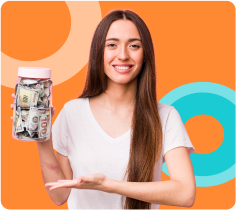
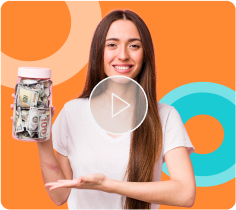
pag 1 desktop full

Changed region(s): [[0.3559, 0.3429, 0.6525, 0.6286], [0.4449, 0.6286, 0.5339, 0.6571]]

diff --git a/Boton-Tutoriales/tutoriales.html b/Boton-Tutoriales/tutoriales.html
@@ -7,7 +7,6 @@
   <link rel="stylesheet" href="tutoriales.css">
   <link rel="stylesheet" href="/Cuenta-del-usuario/style.css">
   <link rel="stylesheet" href="/landing.css">
-  <link rel="stylesheet" href="asesor.css">
   <link rel="stylesheet" href="https://fonts.googleapis.com/icon?family=Material+Icons">
   <link rel="stylesheet" href="https://unpkg.com/swiper@7/swiper-bundle.min.css" />
 
@@ -21,8 +20,8 @@
 
   <section id="tut-main">
 	  <img class="tut-hero hero" src="/img/tuto-hero.png">
-	  <div class="tut-destacado-div">
-		  <img src="/img/tuto-vid-thumb.png">
+	  <div class="tut-destacado-div" id="tuto-thumb">
+		  <img src="/img/tuto-vid-thumb.png" >
 		  <article class="tut-destacado-contenido">
 			  <p class="tut-art-pre">VIDEO</p>
 			  <h4 class="tut-art-titulo">¿Como sacar tu credito inmediato?</h4>

diff --git a/Boton-Tutoriales/tutoriales.css b/Boton-Tutoriales/tutoriales.css
@@ -1,3 +1,4 @@
+
 #tut-main {
 	display: flex;
 	flex-direction: column;
@@ -18,6 +19,15 @@
 	margin-top: -360px;
 	z-index: 3;
 	background-color: white;
+	cursor: pointer;
+}
+
+.tut-destacado-div img{
+	width: 30%;
+}
+
+.tut-destacado-div:hover img{
+	filter: brightness(0.8);
 }
 
 .tut-destacado-contenido {
@@ -85,6 +95,10 @@
 	align-items: stretch;
 }
 
+.tut-main-contenido img {
+	width: 30%;
+}
+
 .tut-main-izq {
 	display: flex;
 	width: 40%;
@@ -130,6 +144,14 @@
 	gap: 50px;
 	background-color: white;
 }
+
+/*
+.tut-cont-vid:hover img{
+	filter: brightness(0.8);
+	cursor: pointer;
+}
+*/
+
 /* Main derecho */
 
 .tut-main-der {
@@ -138,6 +160,10 @@
 	gap: 30px;
 	flex-direction: column;
 	align-items: flex-start;
+}
+
+.tut-main-der img{
+	width: 100px;
 }
 
 	/* articulos */
